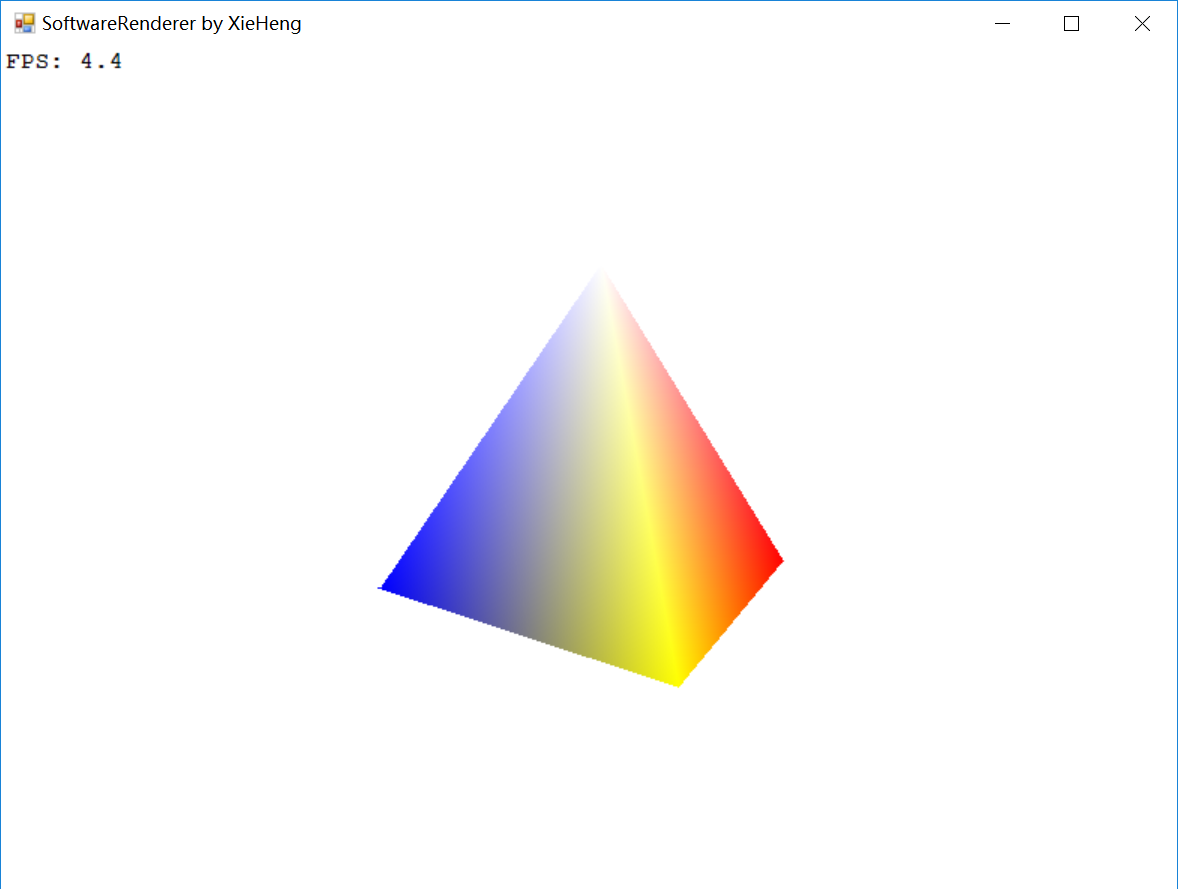
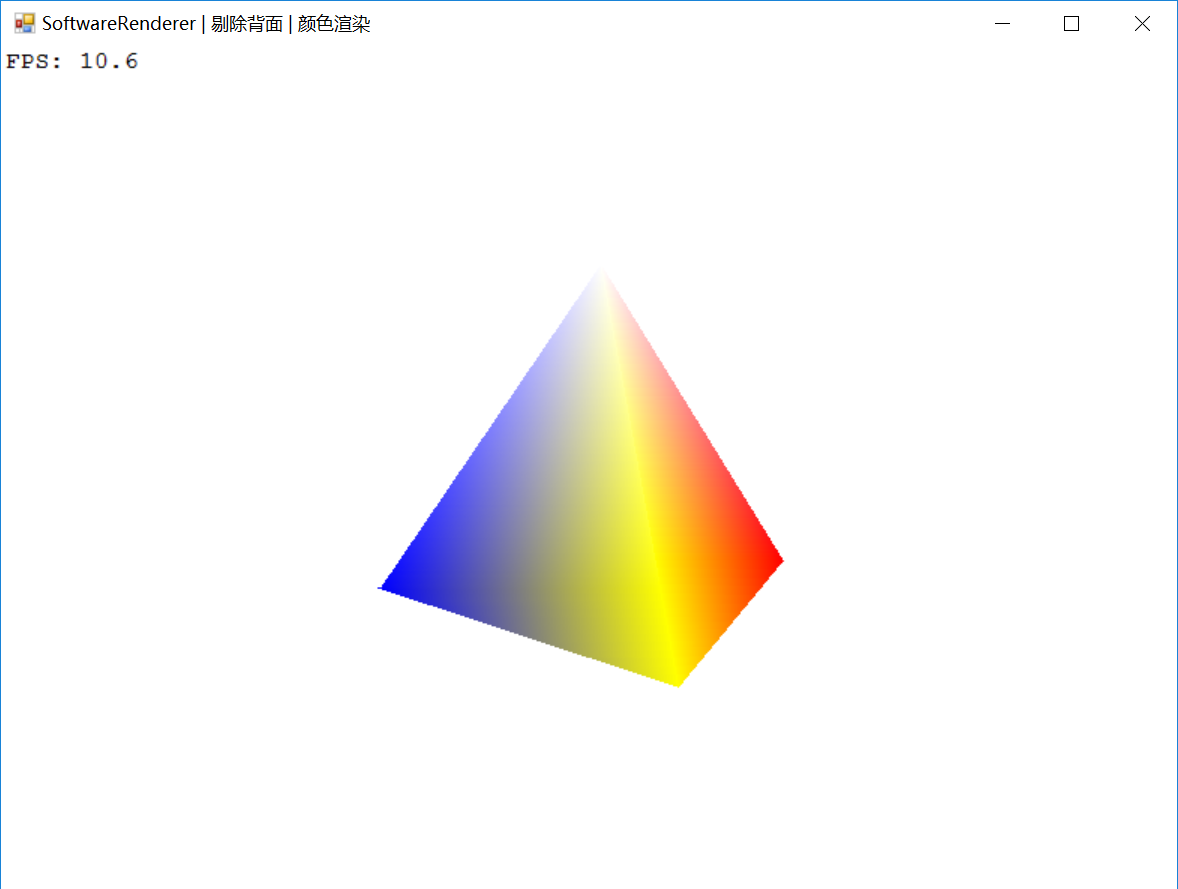
增加正交投影

Changed region(s): [[0.3973, 0.4252, 0.6418, 0.7289], [0.1834, 0.0, 0.3056, 0.0607], [0.0611, 0.0607, 0.1222, 0.0911]]

diff --git a/Camera/Camera.cs b/Camera/Camera.cs
@@ -6,6 +6,12 @@ namespace SoftwareRenderer
 {
     class Camera
     {
+        public enum CameraType
+        {
+            Orthogonal,
+            Perspective,
+        }
+
         public enum RenderType
         {
             Wireframe,
@@ -25,6 +31,7 @@ namespace SoftwareRenderer
         private float _fov = 90.0f;
         private float _near = 0.1f;
         private float _far = 100;
+        private CameraType _cameraType = CameraType.Perspective;
         private RenderType _renderType = RenderType.Color;
         private CullType _cullType = CullType.Back;
         private bool _dirty = false;
@@ -124,6 +131,16 @@ namespace SoftwareRenderer
 
         public float aspect { get; private set; }
 
+        public CameraType cameraType
+        {
+            set 
+            {
+                _cameraType = value;
+                _dirty = true;
+            }
+            get { return _cameraType; }
+        }
+
         public CullType cullType
         {
             set { _cullType = value; }
@@ -157,7 +174,7 @@ namespace SoftwareRenderer
         {
             _dirty = false;
             _worldToCameraMatrix = GetCameraMatrix();
-            _projectionMatrix = GetPerspectiveMatrix();
+            _projectionMatrix = GetProjectionMatrix();
         }
 
         private Matrix4x4 GetCameraMatrix()
@@ -179,6 +196,12 @@ namespace SoftwareRenderer
             return matrix;
         }
 
+        private Matrix4x4 GetProjectionMatrix()
+        {
+            return (_cameraType == CameraType.Perspective) ? GetPerspectiveMatrix() 
+                                                           : GetOrthogonalMatrix();
+        }
+
         private Matrix4x4 GetPerspectiveMatrix()
         {
             Matrix4x4 m = Matrix4x4.zero;
@@ -189,6 +212,20 @@ namespace SoftwareRenderer
             m[2, 2] = far / (far - near);
             m[3, 2] = (near * far) / (near - far);
             m[2, 3] = 1.0f;
+
+            return m;
+        }
+
+        private Matrix4x4 GetOrthogonalMatrix()
+        {
+            Matrix4x4 m = Matrix4x4.zero;
+            float fax = near / Mathf.Tan(Mathf.Deg2Rad(_fov * 0.5f));
+
+            m[0, 0] = fax / aspect; 
+            m[1, 1] = fax;
+            m[2, 2] = 1.0f / (far - near);
+            m[3, 2] = near / (near - far);
+            m[3, 3] = 1.0f;
 
             return m;
         }

diff --git a/AppDelegate.cs b/AppDelegate.cs
@@ -84,13 +84,22 @@ namespace SoftwareRenderer
             }
             else if (e.KeyCode == Keys.Up)//拉近
             {
-                _cameraPosForward += 0.1f;
+                _cameraPosForward += 0.05f;
                 _camera.position = new Vector4(0, 0, _cameraPosForward);
             }
             else if (e.KeyCode == Keys.Down)//推远
             {
-                _cameraPosForward -= 0.1f;
+                _cameraPosForward -= 0.05f;
                 _camera.position = new Vector4(0, 0, _cameraPosForward);
+            }
+
+            if (e.KeyCode == Keys.O)//正交相机
+            {
+                _camera.cameraType = Camera.CameraType.Orthogonal;
+            }
+            else if (e.KeyCode == Keys.P)//透视相机
+            {
+                _camera.cameraType = Camera.CameraType.Perspective;
             }
 
             if (e.KeyCode == Keys.D1)//切换到线框模式
